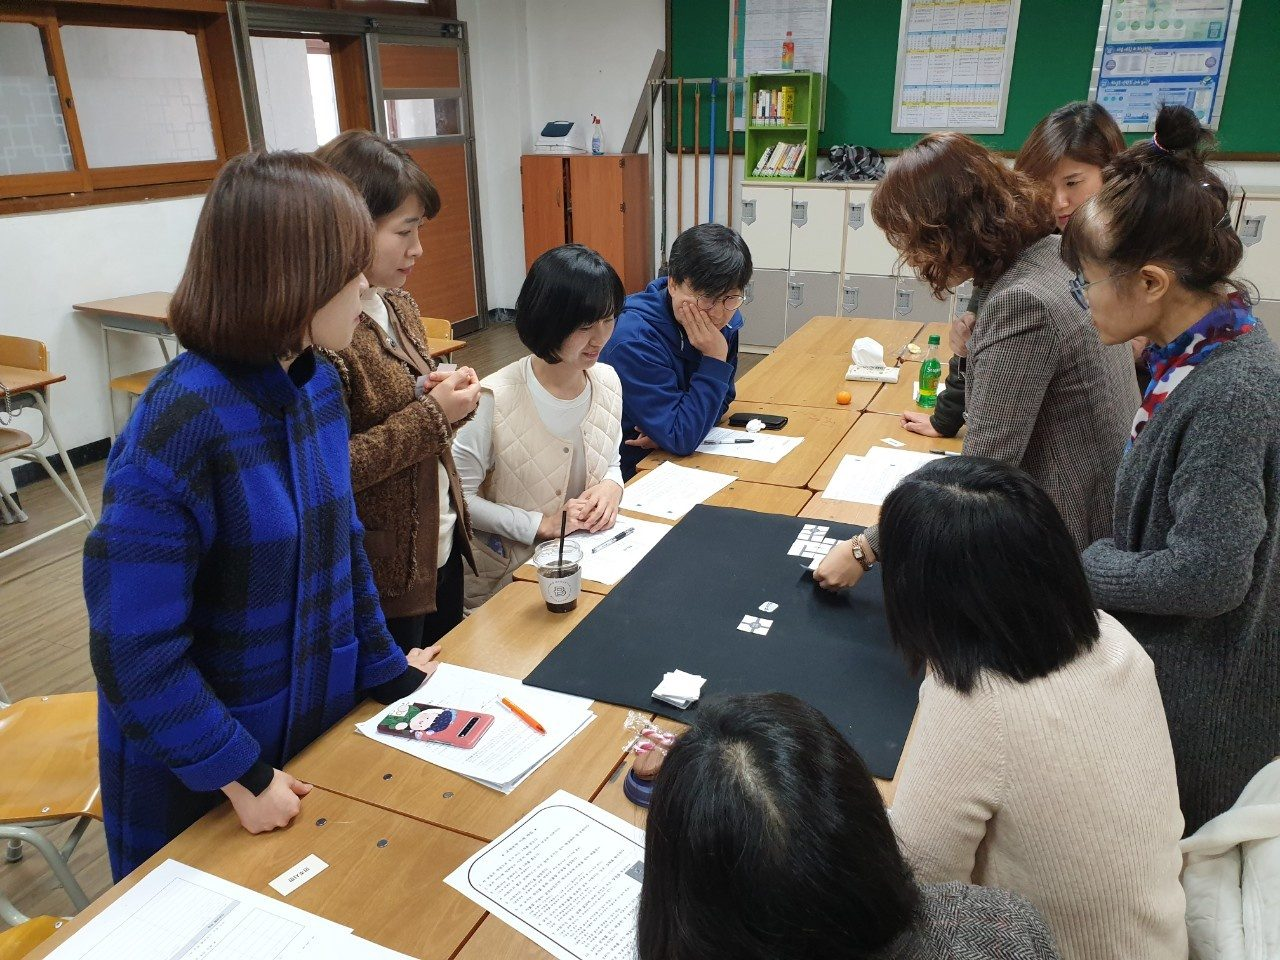
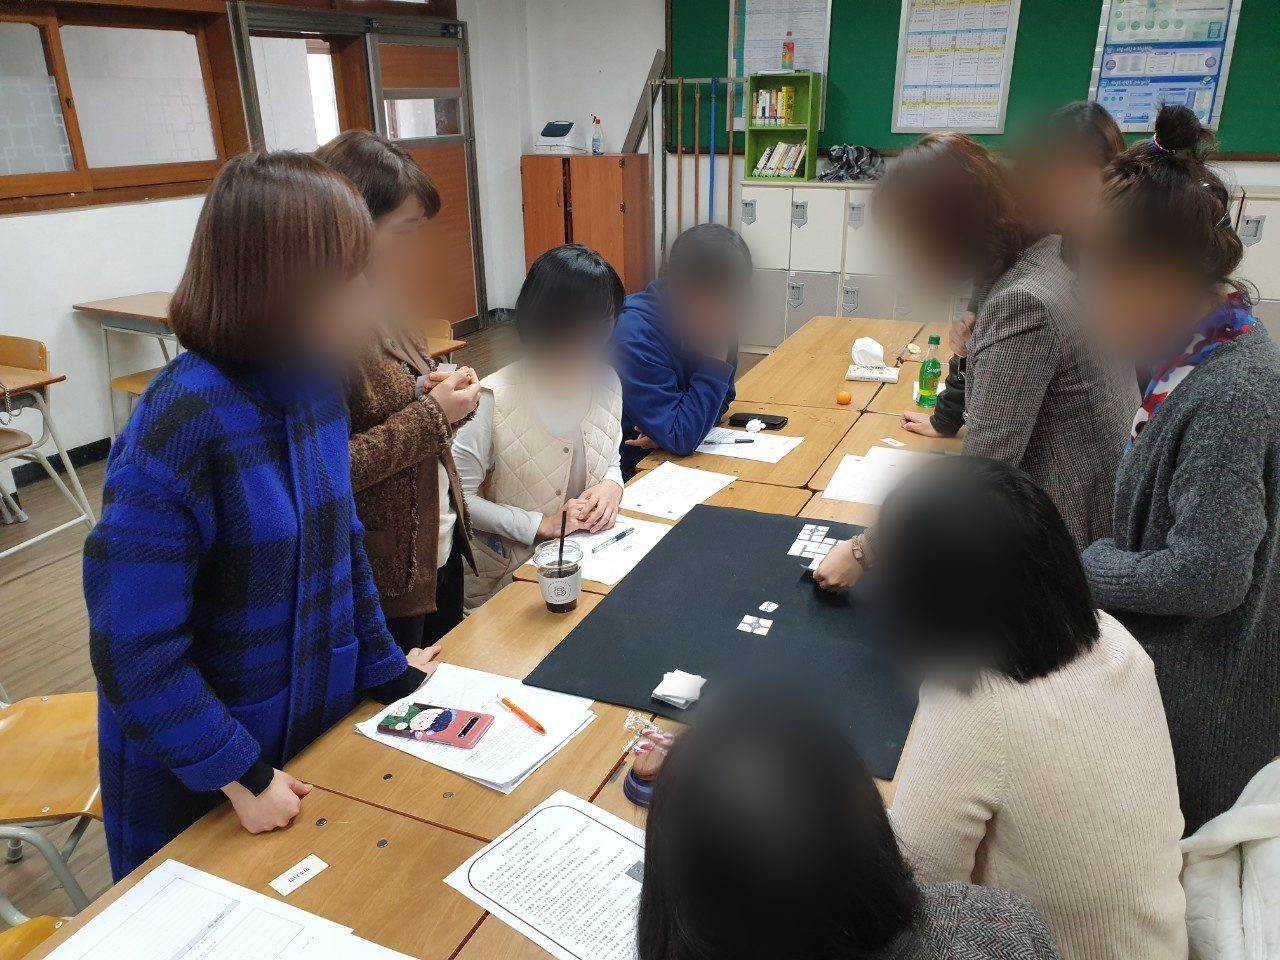
fix: blur teachers' faces; commendation slot removed (press links serve as proof)

diff --git a/story.html b/story.html
@@ -78,9 +78,7 @@
       <li><span class="year">2019</span><span data-en="Featured as the subject of an MBN television documentary — " data-ko="MBN 성공다큐 〈최고다〉 단독 주인공 — ">Featured as the subject of an MBN television documentary — <a href="https://tv.apple.com/kr/episode/%EC%B2%AD%EB%85%84%EA%B5%90%EC%9C%A1%EC%82%AC%EC%97%85%EA%B0%80-%EA%B0%95%EC%A7%84%EB%AA%85-%EB%8C%80%ED%91%9C/umc.cmc.6nrbw39p5teizgy6qz1qkc5d8" rel="noopener">watch on Apple TV</a></span></li>
       <li><span class="year">2026</span><span data-en="Korea Education Contents Lab founds Uncut Stone Studio to rebuild the classroom tool as a game" data-ko="한국교육콘텐츠연구소가 언컷스톤 스튜디오를 설립, 교구를 게임으로 재탄생">Korea Education Contents Lab founds Uncut Stone Studio to rebuild the classroom tool as a game</span></li>
     </ul>
-    <div class="photo-row">
-      <figure class="photo-slot" data-en="Photo — mayoral commendations (coming soon)" data-ko="사진 — 인천광역시장 표창 (준비 중)">Photo — mayoral commendations (coming soon)</figure>
-    </div>
+
   </section>
 
   <section class="reveal" aria-labelledby="game-h">
